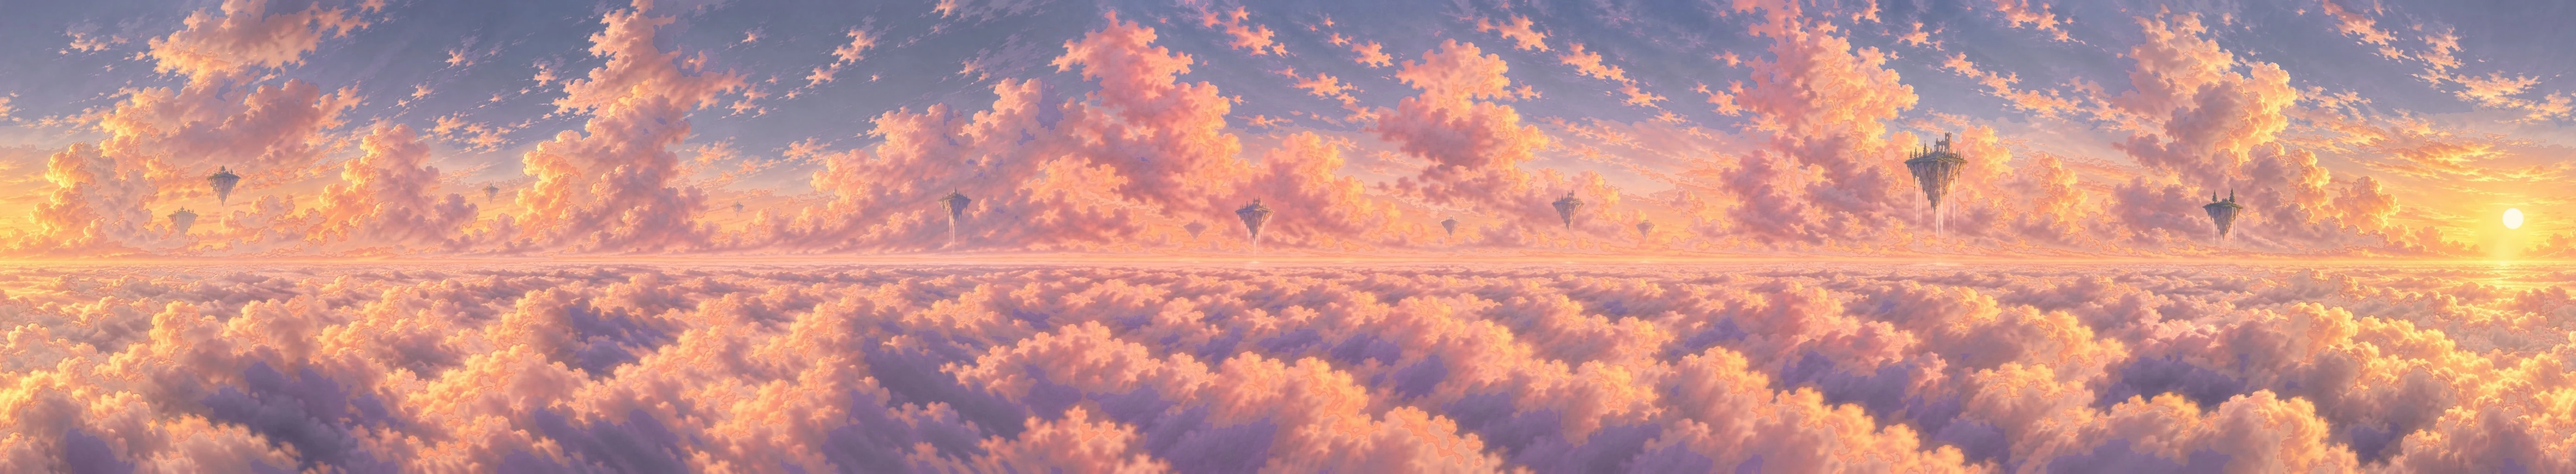
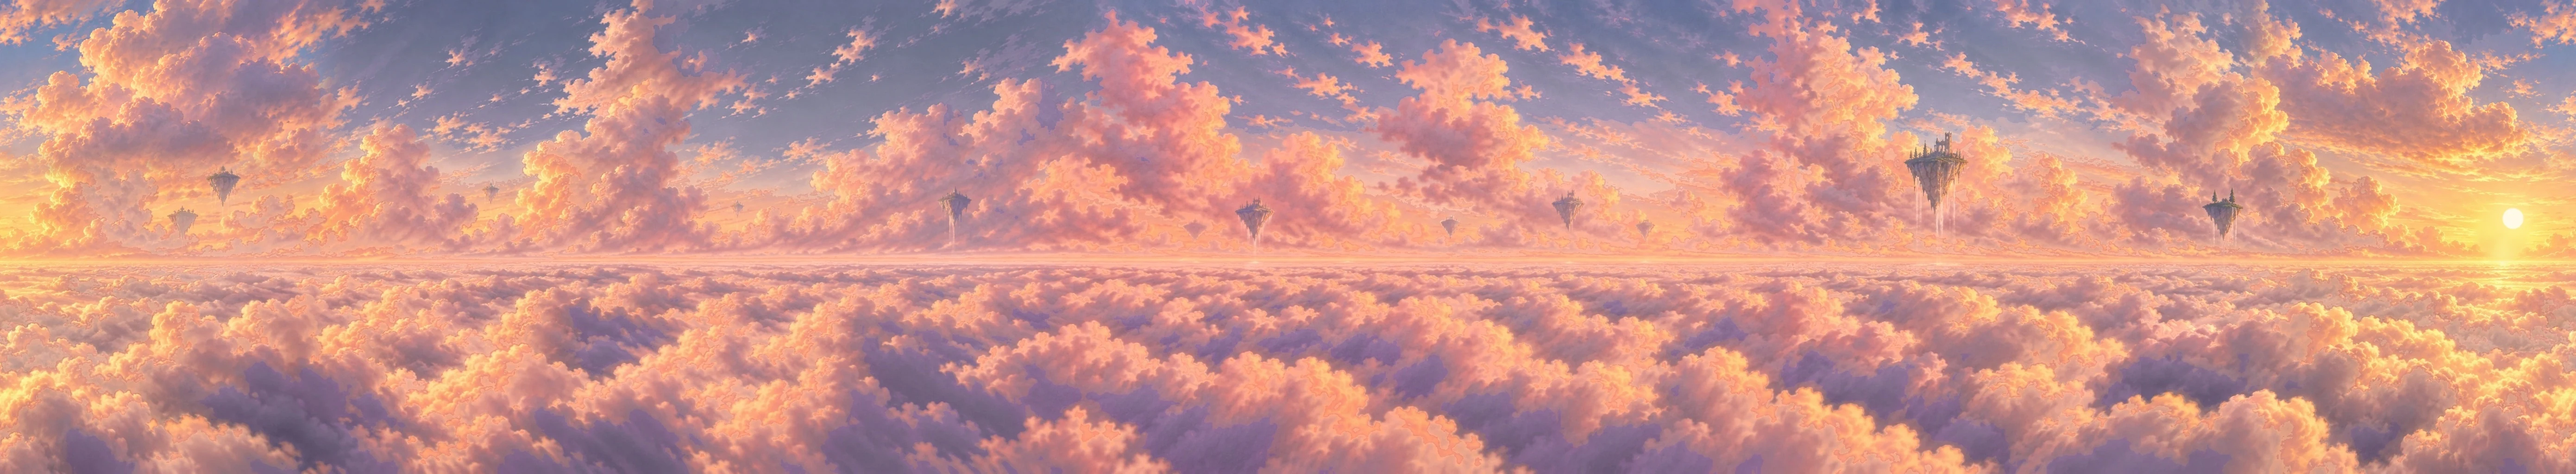
E410 Sky Reach #2: the upper sky over the hero views repainted with sunlit cumulus
Every hero view faces heading 0-5 deg and C pitches into the panorama's top band, a flat mauve cap where mockups C and A
have big golden-hour cumulus. codex image_gen repainted that band (headings -48..+48, above ~10.6 deg, the sun, its
glow and the horizon untouched), feathered into the source (art/far-reach/round-37-upper-sky/merge.py) and shipped by
prep.py. C's upper sky 181/156/149 sat 34 -> 202/162/144 sat 61 (mockup 202/168/148, 55); A 191/156/135 -> 196/151/126
(195/158/140); B more saturated than its paler mockup (the sky follows A and C). Top 1 % unchanged (235.6-238.4).

Claude-Session: https://claude.ai/code/session_0188DaBQh3cU3bBzxR69C8us

Changed region(s): [[0.8709, 0.0, 1.0, 0.3438], [0.0, 0.0, 0.1244, 0.3438]]

diff --git a/src/shards/far-reach/look/panoramaData.ts b/src/shards/far-reach/look/panoramaData.ts
@@ -6,9 +6,9 @@ export const PANO_DEG_PER_V = 66.667;
 /** columns of wrap on either side of the shipped strips (the shader maps the heading inside them) */
 export const PANO_PAD_PX = 16;
 /** the painted sun: heading (degrees, 0 = -z, 90 = +x) and elevation (degrees) */
-export const PANO_SUN = { heading: 352.15, elevation: 6.01 } as const;
+export const PANO_SUN = { heading: 352.16, elevation: 6.01 } as const;
 /** sRGB 0..1: the painting's top rows (the dome above them) and bottom rows (the dome below) */
-export const PANO_ZENITH_SRGB = [0.4949, 0.4821, 0.5981] as const;
-export const PANO_NADIR_SRGB = [0.6322, 0.4603, 0.5040] as const;
+export const PANO_ZENITH_SRGB = [0.5228, 0.4916, 0.5992] as const;
+export const PANO_NADIR_SRGB = [0.6321, 0.4603, 0.5040] as const;
 /** the fog LUT: per heading (64 samples from 0), the painted haze just above the horizon, sRGB 0..1 (r, g, b interleaved) */
-export const PANO_FOG_SRGB = [0.9625, 0.7236, 0.4906, 0.9556, 0.7073, 0.5071, 0.9493, 0.6785, 0.5156, 0.9421, 0.6634, 0.5337, 0.9374, 0.6588, 0.5458, 0.9379, 0.6595, 0.5517, 0.9392, 0.6611, 0.5561, 0.9428, 0.6632, 0.5586, 0.9376, 0.6594, 0.5636, 0.9300, 0.6513, 0.5650, 0.9291, 0.6498, 0.5679, 0.9272, 0.6488, 0.5712, 0.9180, 0.6429, 0.5761, 0.9139, 0.6401, 0.5818, 0.9066, 0.6331, 0.5824, 0.9102, 0.6347, 0.5842, 0.9158, 0.6382, 0.5873, 0.9134, 0.6353, 0.5879, 0.9106, 0.6333, 0.5907, 0.9114, 0.6360, 0.5953, 0.9040, 0.6356, 0.6010, 0.9027, 0.6373, 0.6053, 0.9041, 0.6373, 0.6056, 0.9073, 0.6358, 0.6014, 0.9164, 0.6378, 0.5946, 0.9252, 0.6398, 0.5882, 0.9372, 0.6431, 0.5791, 0.9515, 0.6461, 0.5696, 0.9623, 0.6488, 0.5627, 0.9662, 0.6481, 0.5559, 0.9707, 0.6506, 0.5510, 0.9687, 0.6504, 0.5533, 0.9681, 0.6530, 0.5579, 0.9629, 0.6530, 0.5637, 0.9584, 0.6527, 0.5662, 0.9596, 0.6553, 0.5655, 0.9623, 0.6613, 0.5663, 0.9630, 0.6637, 0.5667, 0.9664, 0.6680, 0.5625, 0.9687, 0.6694, 0.5563, 0.9719, 0.6711, 0.5527, 0.9740, 0.6723, 0.5522, 0.9718, 0.6720, 0.5516, 0.9693, 0.6703, 0.5491, 0.9667, 0.6690, 0.5487, 0.9648, 0.6694, 0.5509, 0.9604, 0.6658, 0.5510, 0.9589, 0.6645, 0.5473, 0.9557, 0.6616, 0.5422, 0.9555, 0.6602, 0.5394, 0.9500, 0.6576, 0.5405, 0.9469, 0.6579, 0.5399, 0.9407, 0.6541, 0.5397, 0.9339, 0.6539, 0.5416, 0.9259, 0.6505, 0.5438, 0.9242, 0.6509, 0.5410, 0.9220, 0.6506, 0.5364, 0.9290, 0.6551, 0.5239, 0.9341, 0.6701, 0.5097, 0.9424, 0.7030, 0.5040, 0.9540, 0.7204, 0.4881, 0.9644, 0.7279, 0.4773, 0.9688, 0.7293, 0.4749, 0.9698, 0.7280, 0.4762];
+export const PANO_FOG_SRGB = [0.9622, 0.7236, 0.4906, 0.9553, 0.7073, 0.5071, 0.9490, 0.6786, 0.5156, 0.9420, 0.6634, 0.5337, 0.9373, 0.6588, 0.5458, 0.9378, 0.6596, 0.5518, 0.9392, 0.6612, 0.5562, 0.9428, 0.6633, 0.5588, 0.9375, 0.6595, 0.5637, 0.9299, 0.6513, 0.5651, 0.9290, 0.6498, 0.5679, 0.9271, 0.6488, 0.5713, 0.9179, 0.6429, 0.5762, 0.9139, 0.6401, 0.5818, 0.9065, 0.6331, 0.5824, 0.9102, 0.6347, 0.5842, 0.9158, 0.6382, 0.5872, 0.9134, 0.6353, 0.5879, 0.9106, 0.6333, 0.5906, 0.9115, 0.6359, 0.5952, 0.9040, 0.6356, 0.6010, 0.9027, 0.6372, 0.6053, 0.9041, 0.6372, 0.6056, 0.9073, 0.6357, 0.6014, 0.9164, 0.6378, 0.5946, 0.9252, 0.6398, 0.5883, 0.9371, 0.6432, 0.5791, 0.9514, 0.6461, 0.5696, 0.9622, 0.6489, 0.5627, 0.9660, 0.6482, 0.5559, 0.9704, 0.6508, 0.5510, 0.9685, 0.6505, 0.5532, 0.9679, 0.6532, 0.5579, 0.9627, 0.6531, 0.5637, 0.9583, 0.6527, 0.5662, 0.9594, 0.6554, 0.5655, 0.9621, 0.6614, 0.5663, 0.9628, 0.6637, 0.5667, 0.9661, 0.6681, 0.5625, 0.9684, 0.6695, 0.5563, 0.9716, 0.6712, 0.5527, 0.9736, 0.6724, 0.5523, 0.9715, 0.6720, 0.5517, 0.9691, 0.6703, 0.5492, 0.9664, 0.6691, 0.5488, 0.9646, 0.6695, 0.5510, 0.9603, 0.6658, 0.5511, 0.9588, 0.6646, 0.5474, 0.9556, 0.6617, 0.5422, 0.9553, 0.6603, 0.5394, 0.9498, 0.6577, 0.5406, 0.9467, 0.6580, 0.5401, 0.9406, 0.6541, 0.5398, 0.9337, 0.6539, 0.5417, 0.9258, 0.6505, 0.5439, 0.9241, 0.6509, 0.5410, 0.9218, 0.6506, 0.5364, 0.9287, 0.6551, 0.5240, 0.9338, 0.6701, 0.5097, 0.9421, 0.7030, 0.5041, 0.9536, 0.7204, 0.4881, 0.9640, 0.7279, 0.4773, 0.9684, 0.7293, 0.4749, 0.9694, 0.7280, 0.4761];

diff --git a/art/far-reach/round-37-upper-sky/gen.py b/art/far-reach/round-37-upper-sky/gen.py
@@ -1,0 +1,62 @@
+"""Sky Reach E410 #2 (C's upper sky): repaint the panorama's upper band over the hero views with lit cumulus.
+
+  python3 gen.py <crop.jpg> <out dir> [n]     # n parallel takes (default 3) -> <out dir>/take-<i>.png
+
+Every hero view (A, B, C, proposal B) faces heading 0-5 deg; C pitches up and its upper third shows the panorama's top
+band (12-37 deg up), painted as a flat mauve cap, where mockups C and A have big sunlit golden-hour cumulus. The crop is
+headings -48..+48 deg of art/far-reach/round-17-mockup-loop/panorama-warm.jpg (the shipped strip's source), rows 0-983,
+scaled to 1536 x 1024. codex image_gen edits it with mockup C's and A's upper skies as references; merge.py feathers the
+upper band of the chosen take back into the source and prep.py ships it.
+"""
+import glob, os, re, shutil, subprocess, sys, time
+from concurrent.futures import ThreadPoolExecutor
+
+HERE = os.path.dirname(os.path.abspath(__file__))
+REPO = os.path.abspath(os.path.join(HERE, '../../..'))
+crop, out = os.path.abspath(sys.argv[1]), os.path.abspath(sys.argv[2])
+N = int(sys.argv[3]) if len(sys.argv) > 3 else 3
+REF_C = os.path.join(out, 'ref-C.jpg')
+REF_A = os.path.join(out, 'ref-A.jpg')
+PROMPT = (
+    "The FIRST attached image is a wide strip of a painted golden-hour sky panorama for a stylized painterly game "
+    "(Genshin Impact / Studio Ghibli finish). The horizon is near the bottom third; the low sun glows at the lower middle. "
+    "EDIT IT: repaint ONLY the UPPER 40 % of the image (everything above the level a little over the sun) into a sky full "
+    "of BIG, VOLUMETRIC, SUNLIT CUMULUS cloud masses like the upper skies of the SECOND and THIRD attached images: heaped "
+    "billowing cumulus with peach-gold sunlit crowns and edges, soft lavender-mauve shaded bellies, a few patches of soft "
+    "blue sky between them, painterly brush work, the same warm palette and light direction as the rest of the strip (the "
+    "sun is low, ahead, at the lower middle, so the clouds' lit sides face down and toward the centre). Make the cloud "
+    "masses large and readable, several layers deep. Keep the LOWER 60 % EXACTLY as it is: the horizon, the sun, its glow "
+    "and the cloud sea must not change. Blend the new upper sky softly into the unchanged lower part. The left and right "
+    "edges continue into more sky (it is a crop of a 360 degree panorama), so do not frame or vignette them. "
+    "No text, no border, no watermark, no islands, no birds, no objects: sky and clouds only. Keep the image size and "
+    "aspect exactly (1536 x 1024).")
+TASK = (" ... TASK FOR CODEX: use your built-in image_gen tool to EDIT the first attached image as described, exactly ONE "
+        "generation. Then stop; do not create or modify any file.")
+
+
+def one(i):
+    dst = os.path.join(out, f'take-{i}.png')
+    if os.path.exists(dst): return i, 'cached'
+    logp = os.path.join(out, f'take-{i}.log')
+    for _ in range(2):
+        log = open(logp, 'a')
+        p = subprocess.Popen(['codex', 'exec', '-s', 'workspace-write', '--skip-git-repo-check', '-C', out,
+                              '-i', crop, '-i', REF_C, '-i', REF_A], stdin=subprocess.PIPE, stdout=log, stderr=log)
+        p.stdin.write((PROMPT + TASK).encode()); p.stdin.close()
+        sid, t0, got = None, time.time(), None
+        while time.time() - t0 < 900:
+            time.sleep(5)
+            if sid is None:
+                m = re.search(r'session id:\s*([0-9a-f-]+)', open(logp).read()); sid = m.group(1) if m else None
+            if sid:
+                pngs = glob.glob(os.path.expanduser(f'~/.codex/generated_images/{sid}/*.png'))
+                if pngs: time.sleep(3); got = pngs[0]; break
+            if p.poll() is not None and sid is None: break
+        if p.poll() is None: p.kill()
+        if got: shutil.copy(got, dst); return i, 'ok'
+    return i, 'failed'
+
+
+if __name__ == '__main__':
+    with ThreadPoolExecutor(N) as ex:
+        for i, st in ex.map(one, range(N)): print('take', i, st, flush=True)

diff --git a/art/far-reach/round-37-upper-sky/merge.py b/art/far-reach/round-37-upper-sky/merge.py
@@ -1,0 +1,43 @@
+"""Feather a gen.py take's upper sky back into the panorama source (E410 #2).
+
+  python3 merge.py <take.png> <out.jpg> [band row] [feather rows] [edge px]
+
+The take is the 1536 x 1024 edit of headings -48..+48 deg, rows 0-983 of
+art/far-reach/round-17-mockup-loop/panorama-warm.jpg (15.36 px a degree, heading 0 at column 0, the horizon at row 564).
+Only rows above `band` (default 400: ~10.6 deg up, clear of the sun's disc at ~6 deg and most of its glow) come from the
+take, eased in over `feather` rows (default 90) and over `edge` px at the crop's two ends (default 120), so the strip
+stays seamless round the compass and at the horizon. Then: python3 ../round-14-loop-4/pano/prep.py 564 <out.jpg>.
+"""
+import os
+import sys
+
+import numpy as np
+from PIL import Image
+
+HERE = os.path.dirname(os.path.abspath(__file__))
+SRC = os.path.join(HERE, '../round-17-mockup-loop/panorama-warm.jpg')
+PPD, SPAN, ROWS = 15.36, 48, 983
+take, out = sys.argv[1], sys.argv[2]
+band = int(sys.argv[3]) if len(sys.argv) > 3 else 400
+feather = int(sys.argv[4]) if len(sys.argv) > 4 else 90
+edge = int(sys.argv[5]) if len(sys.argv) > 5 else 120
+
+src = np.asarray(Image.open(SRC).convert('RGB')).astype(np.float64)
+H, W, _ = src.shape
+half = int(round(SPAN * PPD))
+cols = np.concatenate([np.arange(W - half, W), np.arange(0, half)])
+new = np.asarray(Image.open(take).convert('RGB').resize((len(cols), ROWS), Image.LANCZOS)).astype(np.float64)
+
+
+def smooth(e0, e1, x):
+    t = np.clip((x - e0) / (e1 - e0), 0, 1)
+    return t * t * (3 - 2 * t)
+
+
+rows = np.arange(ROWS)[:, None]
+x = np.arange(len(cols))[None, :]
+w = (1 - smooth(band - feather, band, rows)) * smooth(0, edge, x) * smooth(0, edge, len(cols) - 1 - x)
+merged = src.copy()
+merged[:ROWS, cols] = src[:ROWS, cols] * (1 - w[..., None]) + new * w[..., None]
+Image.fromarray(merged.clip(0, 255).astype(np.uint8)).save(out, quality=95)
+print('wrote', out, 'band', band, 'feather', feather, 'edge', edge)

diff --git a/art/far-reach/round-37-upper-sky/README.md b/art/far-reach/round-37-upper-sky/README.md
@@ -1,0 +1,8 @@
+# Sky Reach E410 #2: the upper sky over the hero views (round 37)
+
+Every hero view (A, B, C, proposal B) faces heading 0-5 deg, and C pitches up into the panorama's top band (12-37 deg up), which was a flat mauve cap where mockups C and A have big sunlit golden-hour cumulus.
+
+- gen.py: three codex image_gen edits of the crop (headings -48..+48 deg, rows 0-983 of ../round-17-mockup-loop/panorama-warm.jpg, the shipped strip's source), with mockups C's and A's upper skies as references. takes.jpg: the crop (top left) and takes 0, 1, 2.
+- merge.py: take 1 (the largest, most readable masses) feathered into the source above row 400 (~10.6 deg up: the sun at ~6 deg, its glow and the horizon untouched), 120 px edge feathers, wrapping heading 0. Output: panorama-sky.jpg, the new source.
+- Shipped with: (cd ../round-14-loop-4/pano && python3 prep.py 564 ../../round-37-upper-sky/panorama-sky.jpg) -> public/assets/far-reach/sky/panorama*.webp and look/panoramaData.ts (sun 352.16 / 6.01 deg, horizon unchanged).
+- board.jpg: mockups (top) / now (bottom): A, C, B, proposal B. Upper sky (rows 90-250 of 844), mockup / before / now: C 202/168/148 s55 / 181/156/149 s34 / 202/162/144 s61; A 195/158/140 s58 / 191/156/135 s57 / 196/151/126 s71; B 179/157/147 s41 / 189/157/140 s52 / 199/153/127 s72 (more saturated than B's paler mockup; the sky follows A and C, the round-10 ruling).
